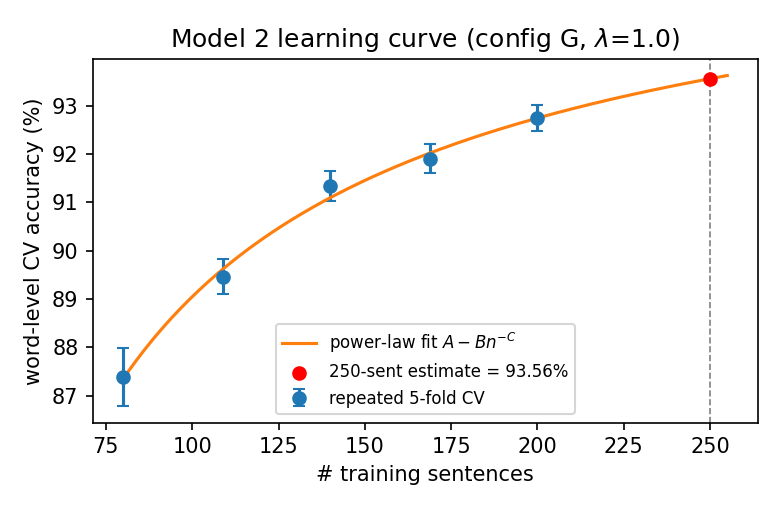
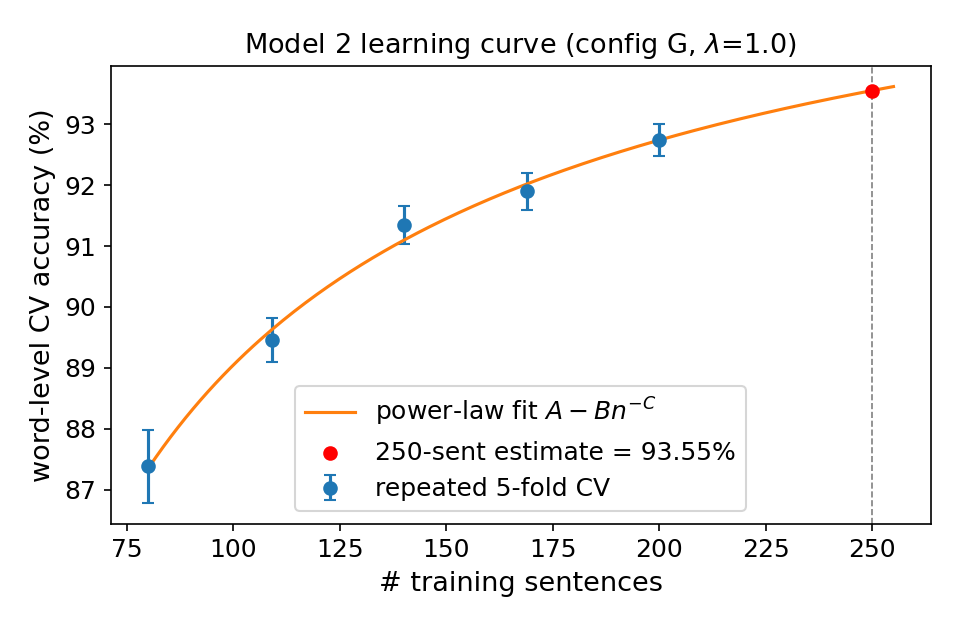
figure: enlarge fonts to >=12pt so report figure clears the 9pt rule

diff --git a/code_and_example/code/estimate_m2.py b/code_and_example/code/estimate_m2.py
@@ -44,7 +44,10 @@ print(f"power-law fit: A={popt[0]:.4f} B={popt[1]:.4f} C={popt[2]:.4f}")
 print(f"=> full-250 estimate = {est_250*100:.2f}%   "
       f"(plateau A = {popt[0]*100:.2f}%)")
 
-plt.figure(figsize=(5.2, 3.4))
+# Fonts >= 12 pt so the embedded figure clears the report's 9 pt minimum.
+plt.rcParams.update({"font.size": 13, "axes.titlesize": 13, "axes.labelsize": 13,
+                     "xtick.labelsize": 12, "ytick.labelsize": 12, "legend.fontsize": 12})
+plt.figure(figsize=(6.4, 4.2))
 plt.errorbar(xs, ys * 100, yerr=es * 100, fmt="o", capsize=3, label="repeated 5-fold CV")
 xx = np.linspace(xs.min(), 255, 200)
 plt.plot(xx, f(xx, *popt) * 100, "-", label=r"power-law fit $A-Bn^{-C}$")
@@ -53,6 +56,6 @@ plt.scatter([250], [est_250 * 100], c="red", zorder=5,
 plt.axvline(250, ls="--", c="gray", lw=0.8)
 plt.xlabel("# training sentences"); plt.ylabel("word-level CV accuracy (%)")
 plt.title(f"Model 2 learning curve (config {CONFIG}, $\\lambda$={LAM})")
-plt.legend(fontsize=8); plt.tight_layout()
+plt.legend(); plt.tight_layout()
 plt.savefig("../guide/m2_learning_curve.png", dpi=150)
 print("saved figure -> guide/m2_learning_curve.png")
